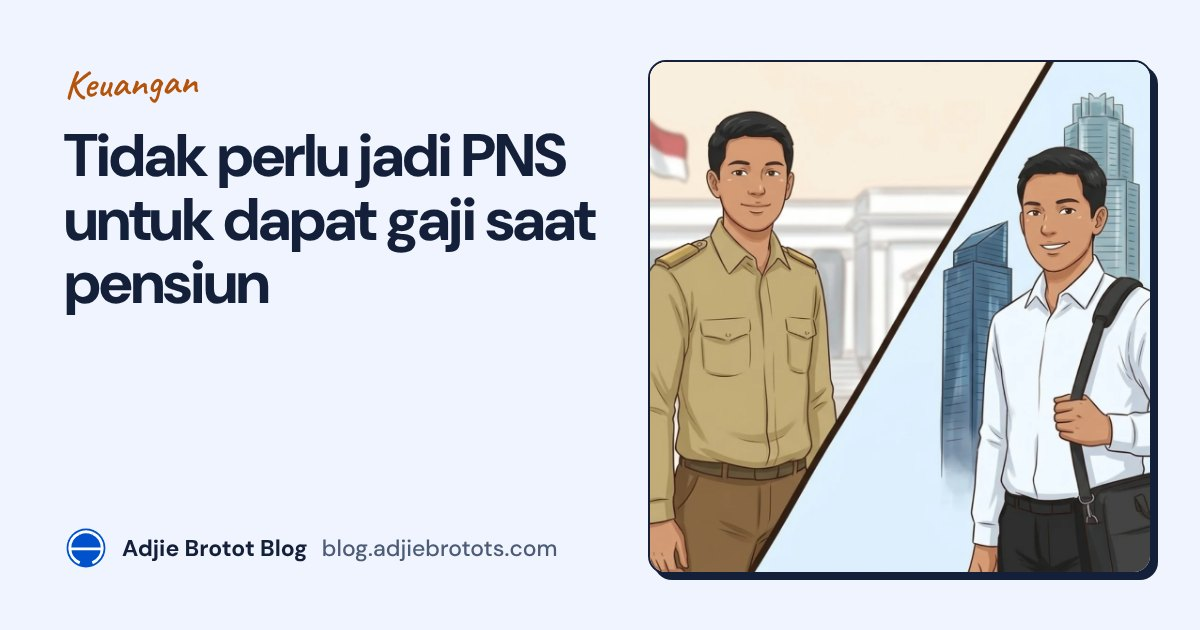
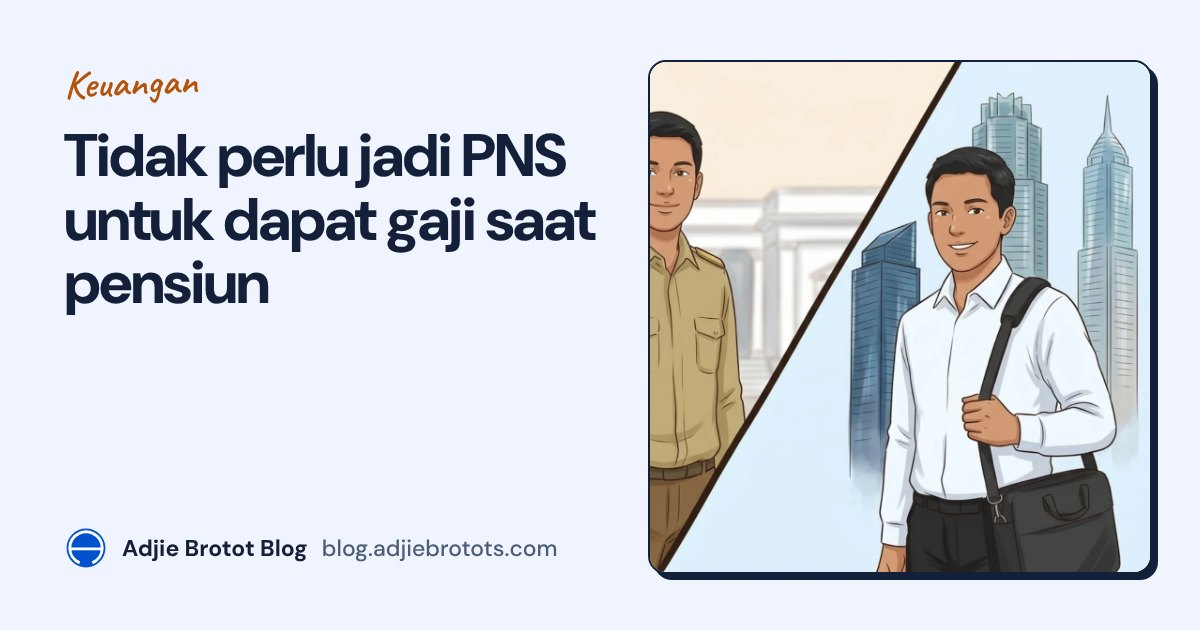
Crop cover pictures around a focus box instead of the centre
Each cropped illustration gets a box in _data/focus.yml (the subject every crop
keeps whole). The post-card thumbnails (square, 16:10, 4:3), the social cards
(og.mjs) and the share posters (blog.js) move the crop to keep that box in view
for their own frame shape; a box too big for the frame stays centred across and
keeps its top. _build/focus.py lists pictures without a box and previews every
crop. Social cards regenerated.

Claude-Session: https://claude.ai/code/session_01LjR4mgmQ5njw5fyvLBq5cp

Changed region(s): [[0.5242, 0.0905, 0.9558, 0.9349]]

diff --git a/_includes/share.html b/_includes/share.html
@@ -3,14 +3,15 @@
   .share-toggle) opening its dropdown list. Facebook, X and LinkedIn are plain
   links; the Instagram posters and Share as link are worked by blog.js, which also
   draws the Story and Post posters from the post's title, its first
-  category and its first illustration (or `share_image:` in the front matter).
+  category and its first illustration (or `share_image:` in the front matter),
+  cropped around its box in _data/focus.yml (data-focus).
   Hidden until blog.js wires it, so a page without JavaScript shows no dead
   button. Params: n (unique per page), cat (the first category's label).
 {%- endcomment -%}
 {%- assign _url = page.url | absolute_url -%}
 {%- assign _u = _url | cgi_escape -%}
 {%- capture _ig_ico -%}<svg viewBox="0 0 24 24" width="18" height="18" focusable="false"><path d="M7.0301.084c-1.2768.0602-2.1487.264-2.911.5634-.7888.3075-1.4575.72-2.1228 1.3877-.6652.6677-1.075 1.3368-1.3802 2.127-.2954.7638-.4956 1.6365-.552 2.914-.0564 1.2775-.0689 1.6882-.0626 4.947.0062 3.2586.0206 3.6671.0825 4.9473.061 1.2765.264 2.1482.5635 2.9107.308.7889.72 1.4573 1.388 2.1228.6679.6655 1.3365 1.0743 2.1285 1.38.7632.295 1.6361.4961 2.9134.552 1.2773.056 1.6884.069 4.9462.0627 3.2578-.0062 3.668-.0207 4.9478-.0814 1.28-.0607 2.147-.2652 2.9098-.5633.7889-.3086 1.4578-.72 2.1228-1.3881.665-.6682 1.0745-1.3378 1.3795-2.1284.2957-.7632.4966-1.636.552-2.9124.056-1.2809.0692-1.6898.063-4.948-.0063-3.2583-.021-3.6668-.0817-4.9465-.0607-1.2797-.264-2.1487-.5633-2.9117-.3084-.7889-.72-1.4568-1.3876-2.1228C21.2982 1.33 20.628.9208 19.8378.6165 19.074.321 18.2017.1197 16.9244.0645 15.6471.0093 15.236-.005 11.977.0014 8.718.0076 8.31.0215 7.0301.0839m.1402 21.6932c-1.17-.0509-1.8053-.2453-2.2287-.408-.5606-.216-.96-.4771-1.3819-.895-.422-.4178-.6811-.8186-.9-1.378-.1644-.4234-.3624-1.058-.4171-2.228-.0595-1.2645-.072-1.6442-.079-4.848-.007-3.2037.0053-3.583.0607-4.848.05-1.169.2456-1.805.408-2.2282.216-.5613.4762-.96.895-1.3816.4188-.4217.8184-.6814 1.3783-.9003.423-.1651 1.0575-.3614 2.227-.4171 1.2655-.06 1.6447-.072 4.848-.079 3.2033-.007 3.5835.005 4.8495.0608 1.169.0508 1.8053.2445 2.228.408.5608.216.96.4754 1.3816.895.4217.4194.6816.8176.9005 1.3787.1653.4217.3617 1.056.4169 2.2263.0602 1.2655.0739 1.645.0796 4.848.0058 3.203-.0055 3.5834-.061 4.848-.051 1.17-.245 1.8055-.408 2.2294-.216.5604-.4763.96-.8954 1.3814-.419.4215-.8181.6811-1.3783.9-.4224.1649-1.0577.3617-2.2262.4174-1.2656.0595-1.6448.072-4.8493.079-3.2045.007-3.5825-.006-4.848-.0608M16.953 5.5864A1.44 1.44 0 1 0 18.39 4.144a1.44 1.44 0 0 0-1.437 1.4424M5.8385 12.012c.0067 3.4032 2.7706 6.1557 6.173 6.1493 3.4026-.0065 6.157-2.7701 6.1506-6.1733-.0065-3.4032-2.771-6.1565-6.174-6.1498-3.403.0067-6.156 2.771-6.1496 6.1738M8 12.0077a4 4 0 1 1 4.008 3.9921A3.9996 3.9996 0 0 1 8 12.0077"/></svg>{%- endcapture -%}
-<div class="share-menu" hidden data-url="{{ _url }}" data-title="{{ page.title | escape }}" data-cat="{{ include.cat | escape }}"{% if page.share_image %} data-image="{{ page.share_image | relative_url }}"{% endif %} data-copied="{{ t.share_copied }}">
+<div class="share-menu" hidden data-url="{{ _url }}" data-title="{{ page.title | escape }}" data-cat="{{ include.cat | escape }}"{% if page.share_image %} data-image="{{ page.share_image | relative_url }}"{% endif %} data-copied="{{ t.share_copied }}" data-focus="{{ site.data.focus | jsonify | escape }}">
   <button type="button" class="btn-secondary btn-sm share-toggle" title="{{ t.share_title }}" aria-haspopup="menu" aria-expanded="false" aria-controls="share-list-{{ include.n }}">
     <span class="share-label">{{ t.share }}</span><svg class="share-chev" viewBox="0 0 24 24" width="12" height="12" aria-hidden="true" focusable="false" fill="none" stroke="currentColor" stroke-width="2.5" stroke-linecap="round" stroke-linejoin="round"><path d="m6 9 6 6 6-6"/></svg>
   </button>

diff --git a/assets/js/blog.js b/assets/js/blog.js
@@ -616,15 +616,37 @@
     ctx.arcTo(x, y + h, x, y, r); ctx.arcTo(x, y, x + w, y, r);
     ctx.closePath();
   }
+  /* Where a cover crop of a picture starts, as a share (0..1) of the room the
+     picture overflows the frame by on each axis: the crop keeps the picture's
+     focus box (_data/focus.yml, percent) whole, centred and inside the edges;
+     a box too big for the frame stays centred across and keeps its top. Same
+     rule as blog.css. */
+  function focusCrop(box, ir, cr) {
+    if (!box) return { x: 0.5, y: 0.5 };
+    var vx = Math.min(1, cr / ir), vy = Math.min(1, ir / cr);
+    function at(a, b, v, top) {
+      var s = (a + b) / 200 - v / 2;
+      if (top) s = Math.min(s, a / 100);
+      return v >= 1 ? 0.5 : Math.max(0, Math.min(1, s / (1 - v)));
+    }
+    return { x: at(box[0], box[2], vx), y: at(box[1], box[3], vy, true) };
+  }
+  function focusBox(d, src) {
+    try {
+      var f = JSON.parse(d.focus || '{}')[decodeURIComponent(String(src).split(/[?#]/)[0].split('/').pop())];
+      return f && f.box;
+    } catch (e) { return null; }
+  }
   /* The picture in the family sticker: an ink outline and a hard offset. */
-  function drawSticker(ctx, img, x, y, w, h) {
+  function drawSticker(ctx, img, x, y, w, h, box) {
     var r = 30;
     ctx.fillStyle = INK; roundRect(ctx, x + 12, y + 12, w, h, r); ctx.fill();
     ctx.fillStyle = '#fff'; roundRect(ctx, x, y, w, h, r); ctx.fill();
     if (img) {
       ctx.save(); roundRect(ctx, x, y, w, h, r); ctx.clip();
       var s = Math.max(w / img.naturalWidth, h / img.naturalHeight), iw = img.naturalWidth * s, ih = img.naturalHeight * s;
-      ctx.drawImage(img, x + (w - iw) / 2, y + (h - ih) / 2, iw, ih);
+      var at = focusCrop(box, img.naturalWidth / img.naturalHeight, w / h);
+      ctx.drawImage(img, x + (w - iw) * at.x, y + (h - ih) * at.y, iw, ih);
       ctx.restore();
     }
     ctx.lineWidth = 4; ctx.strokeStyle = INK; roundRect(ctx, x, y, w, h, r); ctx.stroke();
@@ -644,7 +666,7 @@
       pic ? loadImage(pic).catch(function () { return null; }) : null,
       loadImage(document.querySelector('.brand img').src).catch(function () { return null; })
     ]).then(function (got) {
-      var img = got[1], logo = got[2];
+      var img = got[1], logo = got[2], box = pic && focusBox(d, pic);
       var c = document.createElement('canvas');
       c.width = W; c.height = H;
       var ctx = c.getContext('2d'), cw = W - pad * 2;
@@ -675,7 +697,7 @@
         // The picture and the title high up, the blog's name at the very
         // bottom, and the wide space between left blank for the reader's
         // link sticker or their own words.
-        drawSticker(ctx, img, pad, 120, cw - 12, 480);
+        drawSticker(ctx, img, pad, 120, cw - 12, 480, box);
         heading(120 + 480 + 12 + 40, 56, [72, 66, 60, 54, 48], 4, 280);
         drawBrand(ctx, logo, pad, H - 64 - 72);
       } else {
@@ -684,7 +706,7 @@
         var textEnd = heading(pad, 54, [68, 62, 56, 50, 44], 3, 200);
         var brandY = H - pad - 72, imgTop = textEnd + 40;
         var imgH = Math.max(300, Math.min(brandY - 140 - imgTop, Math.round(cw * 0.6)));
-        drawSticker(ctx, img, pad, imgTop, cw - 12, imgH);
+        drawSticker(ctx, img, pad, imgTop, cw - 12, imgH, box);
         drawBrand(ctx, logo, pad, brandY);
       }
       return new Promise(function (resolve, reject) {

diff --git a/assets/css/blog.css b/assets/css/blog.css
@@ -212,6 +212,19 @@ main { padding: 1rem 0 3rem; }
   border-bottom: 1.5px solid var(--ink-line); background: var(--panel-raised);
 }
 .post-card-thumb img { display: block; width: 100%; height: 100%; object-fit: cover; object-position: 50% 30%; }
+/* A picture with a focus box (_data/focus.yml: --fx0..--fy1 in percent, --ir its width/height)
+   is cropped to keep that box whole, for whatever shape the frame has (--cr, its width/height,
+   set on each frame below). --vx/--vy: the share of the picture's width/height the frame
+   shows. The crop centres on the box and stops at the picture's edges; a box too big for the
+   frame stays centred across and keeps its top edge (a head) down. Same rule as focusCrop() in blog.js and _build/og.mjs. */
+.post-card-thumb { --cr: 1.6; }
+.post-card-thumb img.has-focus {
+  --vx: min(1, var(--cr) / var(--ir));
+  --vy: min(1, var(--ir) / var(--cr));
+  object-position:
+    calc(100% * clamp(0, ((var(--fx0) + var(--fx1)) / 200 - var(--vx) / 2) / max(1 - var(--vx), 0.0001), 1))
+    calc(100% * clamp(0, min((var(--fy0) + var(--fy1)) / 200 - var(--vy) / 2, var(--fy0) / 100) / max(1 - var(--vy), 0.0001), 1));
+}
 .post-card.is-featured .post-card-thumb { margin: calc(-1 * clamp(1.25rem, 3vw, 2rem)) calc(-1 * clamp(1.25rem, 3vw, 2rem)) 0.35rem; }
 /* A regular card keeps the picture small, a square on the left beside the text. */
 .post-card.has-thumb:not(.is-featured) {
@@ -220,17 +233,17 @@ main { padding: 1rem 0 3rem; }
 }
 .post-card.has-thumb:not(.is-featured) > :not(.post-card-thumb) { grid-column: 2; }
 .post-card.has-thumb:not(.is-featured) .post-card-thumb {
-  grid-column: 1; grid-row: 1 / span 5; align-self: start; margin: 0; aspect-ratio: 1;
+  --cr: 1; grid-column: 1; grid-row: 1 / span 5; align-self: start; margin: 0; aspect-ratio: 1;
   border: 1.5px solid var(--ink-line); border-radius: var(--radius-lg);
 }
-.post-card.has-thumb:not(.is-featured) .post-card-thumb img { object-position: 50% 25%; }
+.post-card.has-thumb:not(.is-featured) .post-card-thumb img:not(.has-focus) { object-position: 50% 25%; }
 
 /* On a wide screen the featured card puts its picture beside the text, not above it. */
 @media (min-width: 760px) {
   .post-card.is-featured.has-thumb { display: grid; grid-template-columns: minmax(0, 1fr) minmax(0, 1.1fr); grid-auto-rows: min-content; column-gap: clamp(1.25rem, 3vw, 2rem); align-content: center; }
   .post-card.is-featured.has-thumb > :not(.post-card-thumb) { grid-column: 2; }
   .post-card.is-featured .post-card-thumb {
-    grid-column: 1; grid-row: 1 / span 5; align-self: center; margin: 0; aspect-ratio: 4 / 3;
+    --cr: 1.3333; grid-column: 1; grid-row: 1 / span 5; align-self: center; margin: 0; aspect-ratio: 4 / 3;
     border: 1.5px solid var(--ink-line); border-radius: var(--radius-lg);
   }
 }

diff --git a/_includes/post-card.html b/_includes/post-card.html
@@ -12,7 +12,9 @@
   {%- endif %}
 <article class="post-card{% if include.featured %} is-featured{% endif %}{% if _img %} has-thumb{% endif %}">
   {%- if _img %}
-  <a class="post-card-thumb" href="{{ p.url | relative_url }}" tabindex="-1" aria-hidden="true"><img src="{{ _img | relative_url }}" alt="" width="1456" height="1087" loading="{% if include.featured %}eager{% else %}lazy{% endif %}" decoding="async"></a>
+  {%- comment %} The crop keeps the picture's point of interest whole: its box in _data/focus.yml, placed by blog.css. {% endcomment %}
+  {%- assign _fname = _img | split: '/' | last %}{% assign _f = site.data.focus[_fname] %}
+  <a class="post-card-thumb" href="{{ p.url | relative_url }}" tabindex="-1" aria-hidden="true"><img src="{{ _img | relative_url }}" alt="" width="{{ _f.size[0] | default: 1456 }}" height="{{ _f.size[1] | default: 1087 }}"{% if _f.box %} class="has-focus" style="--fx0:{{ _f.box[0] }};--fy0:{{ _f.box[1] }};--fx1:{{ _f.box[2] }};--fy1:{{ _f.box[3] }};--ir:calc({{ _f.size[0] }} / {{ _f.size[1] }})"{% endif %} loading="{% if include.featured %}eager{% else %}lazy{% endif %}" decoding="async"></a>
   {%- endif %}
   {% include tags.html tags=p.tags lang=include.lang %}
   <h{{ include.level | default: 2 }} class="post-card-title"><a href="{{ p.url | relative_url }}">{{ p.title }}</a></h{{ include.level | default: 2 }}>

diff --git a/_build/focus.py b/_build/focus.py
@@ -1,0 +1,123 @@
+#!/usr/bin/env python3
+"""Checks the focus boxes in _data/focus.yml and previews every crop they drive.
+
+    python3 _build/focus.py [--preview DIR]
+
+1. Lists each picture the site crops (a post's `thumbnail:`, `share_image:` and first
+   *-ill-*.webp, plus the home card's picture in og.mjs) that has no focus box: give it one.
+2. Warns when an entry's `size` is not the file's real size.
+3. With --preview DIR, writes one PNG per picture: the picture with its box in red, then the
+   crop of every frame shape the site uses (square thumbnail, 16:10 card, 4:3 featured
+   card, the social card, the Post and Story posters), computed with the same rule as
+   blog.css, blog.js and og.mjs. Look at them: each crop must show the subject whole.
+"""
+import re
+import sys
+from pathlib import Path
+
+from PIL import Image, ImageDraw
+
+ROOT = Path(__file__).resolve().parent.parent
+IMG = ROOT / 'assets/img'
+# Frame shapes, width/height: blog.css (.post-card-thumb), og.mjs (.ill), blog.js (drawSticker).
+FRAMES = {'square card': 1, '16:10 card': 1.6, '4:3 featured': 4 / 3, 'social card': 500 / 510,
+          'Post poster': 924 / 554, 'Story poster': 888 / 480}
+
+
+def load_focus():
+    out = {}
+    pat = re.compile(r'^([\w.-]+):\s*\{\s*box:\s*\[([^\]]+)\],\s*size:\s*\[([^\]]+)\]', re.M)
+    for m in pat.finditer((ROOT / '_data/focus.yml').read_text()):
+        out[m[1]] = ([float(v) for v in m[2].split(',')], [int(v) for v in m[3].split(',')])
+    return out
+
+
+def cropped_pictures():
+    found = {}
+    for post in sorted((ROOT).glob('*/_posts/*.md')):
+        src = post.read_text()
+        fm = src.split('---')[1]
+        for key in ('thumbnail', 'share_image'):
+            m = re.search(rf'^{key}:\s*"?/assets/img/([^"\s]+)', fm, re.M)
+            if m:
+                found.setdefault(m[1], post.name)
+        m = re.search(r'/assets/img/([\w-]+-ill-[\w-]+\.webp)', src)
+        if m:
+            found.setdefault(m[1], post.name)
+    m = re.search(r"ill: '([\w.-]+)'", (ROOT / '_build/og.mjs').read_text())
+    if m:
+        found.setdefault(m[1], 'og.mjs (home card)')
+    return found
+
+
+def crop(box, iw, ih, cr):
+    """The visible rectangle (x0, y0, x1, y1 in pixels) of a cover crop to ratio cr."""
+    ir = iw / ih
+    vx, vy = min(1, cr / ir), min(1, ir / cr)
+
+    def at(a, b, v, top=False):
+        s = (a + b) / 200 - v / 2
+        if top:
+            s = min(s, a / 100)  # a box taller than the frame keeps its top (a head)
+        return 0.5 if v >= 1 else max(0, min(1, s / (1 - v)))
+    sx = at(box[0], box[2], vx) * (1 - vx)
+    sy = at(box[1], box[3], vy, True) * (1 - vy)
+    return sx * iw, sy * ih, (sx + vx) * iw, (sy + vy) * ih
+
+
+def preview(name, box, out):
+    im = Image.open(IMG / name).convert('RGB')
+    iw, ih = im.size
+    H = 300
+    tiles = []
+    full = im.copy()
+    d = ImageDraw.Draw(full)
+    d.rectangle([box[0] * iw / 100, box[1] * ih / 100, box[2] * iw / 100 - 1, box[3] * ih / 100 - 1],
+                outline=(230, 0, 0), width=max(3, iw // 250))
+    tiles.append(('picture + box', full.resize((round(H * iw / ih), H))))
+    for label, cr in FRAMES.items():
+        c = im.crop(tuple(round(v) for v in crop(box, iw, ih, cr)))
+        tiles.append((label, c.resize((round(H * cr), H))))
+    sheet = Image.new('RGB', (sum(t.width for _, t in tiles) + 16 * (len(tiles) + 1), H + 48), 'white')
+    d = ImageDraw.Draw(sheet)
+    x = 16
+    for label, t in tiles:
+        sheet.paste(t, (x, 32))
+        d.text((x, 10), label, fill=(0, 0, 0))
+        x += t.width + 16
+    sheet.save(out / (Path(name).stem + '.png'))
+
+
+def main():
+    focus = load_focus()
+    problems = 0
+    for name, where in cropped_pictures().items():
+        if name not in focus:
+            problems += 1
+            with Image.open(IMG / name) as im:
+                w, h = im.size
+            print(f'MISSING  {name} ({where}): add\n  {name}: {{ box: [x0, y0, x1, y1], size: [{w}, {h}] }}')
+    for name, (box, size) in focus.items():
+        if not (IMG / name).exists():
+            print(f'WARN     {name}: no such file in assets/img/')
+            continue
+        with Image.open(IMG / name) as im:
+            if list(im.size) != size:
+                problems += 1
+                print(f'ERROR    {name}: size is {im.size[0]}x{im.size[1]}, focus.yml says {size[0]}x{size[1]}')
+        if not (0 <= box[0] < box[2] <= 100 and 0 <= box[1] < box[3] <= 100):
+            problems += 1
+            print(f'ERROR    {name}: box {box} must be 0 <= x0 < x1 <= 100 and 0 <= y0 < y1 <= 100')
+    if '--preview' in sys.argv:
+        out = Path(sys.argv[sys.argv.index('--preview') + 1])
+        out.mkdir(parents=True, exist_ok=True)
+        for name, (box, _) in focus.items():
+            if (IMG / name).exists():
+                preview(name, box, out)
+        print(f'Previews in {out}/')
+    print('OK' if not problems else f'{problems} to fix')
+    return 1 if problems else 0
+
+
+if __name__ == '__main__':
+    sys.exit(main())

diff --git a/README.md b/README.md
@@ -39,6 +39,9 @@ publishes it. The look comes from the design system of
 4. Give it a social card and a Markdown copy: `node _build/og.mjs` draws
    `assets/img/og/<slug>.jpg` (set it as `image:`), and a stub in `md/` (copy one, see
    `md/README.txt`) publishes the post as Markdown at `<post URL>index.md` for AI readers.
+   The post's lead illustration is cropped on the cards, the social card and the share
+   poster, so give it a focus box in `_data/focus.yml` first (the subject every crop keeps
+   whole) and check it: `python3 _build/focus.py --preview <dir>`.
 5. Check it for search and answer engines:
    `python3 .claude/skills/ai-assisted-blog-post/scripts/check-seo.py <post>.md` (title,
    description, slug, keywords, the In short block, headings, sources, links, images, the

diff --git a/.claude/skills/wikihow-illustration/SKILL.md b/.claude/skills/wikihow-illustration/SKILL.md
@@ -148,6 +148,10 @@ Then use an `<img>` with its real pixel size, like the other images on the blog,
 
 - **Alt text** says what the person is doing and with what, in the post's language. Not
   "illustration of" and not the style.
+- **A post's lead picture gets a focus box.** Cards, the social card and the share poster crop
+  it to other shapes, so add its line to `_data/focus.yml` (the subject every crop keeps
+  whole: one whole person, not the seam of a split picture) before `node _build/og.mjs`, and
+  check the crops with `python3 _build/focus.py --preview <dir>`.
 - A picture can also be the social card (`image:` and `image_alt:` in the front matter).
   Cards work best wide: generate a version with `--aspect 16:9` and render it with
   `--width 1200`.

diff --git a/.claude/skills/isometric-illustration/SKILL.md b/.claude/skills/isometric-illustration/SKILL.md
@@ -124,7 +124,8 @@ matches (`references/blog-embed.md`).
 6. **Publish.** `--publish` copies the pair to `assets/img/` and prints the `<figure>` to
    paste; write the alt text in the post's language on both images. If the scene is the
    post's lead picture, add `--card` and put the `thumbnail:` and `share_image:` lines it
-   prints in the front matter, then run `node _build/og.mjs`.
+   prints in the front matter, give the card a focus box in `_data/focus.yml` (check it with
+   `python3 _build/focus.py --preview <dir>`), then run `node _build/og.mjs`.
 7. **Run the checks in `CLAUDE.md`** and commit the scene file with the SVGs (and the card),
    plus `models.py` if you added an object there.
 

diff --git a/.claude/skills/editorial-illustration/SKILL.md b/.claude/skills/editorial-illustration/SKILL.md
@@ -142,5 +142,8 @@ pixel size, inside a `<figure>`, with alt text that says what the picture shows 
 post's language ("Caricature of ...", "Collage of ..." is fine when it is one; never the
 style's source). These pictures carry their own background, so they work in both themes.
 
+If it is the post's lead picture, give it a focus box in `_data/focus.yml` (see
+`wikihow-illustration`) and check the crops with `python3 _build/focus.py --preview <dir>`.
+
 Run the checks in `CLAUDE.md`, and commit the WebP with its prompt file. Tell Adjie the style,
 the model and the number of tries.
